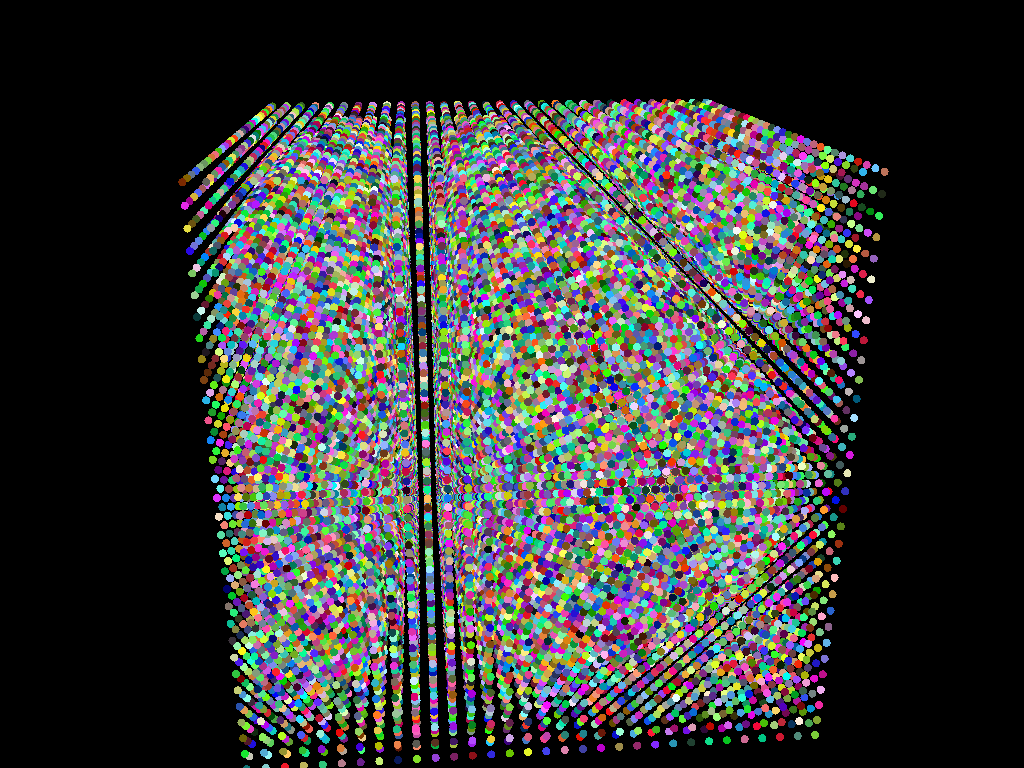
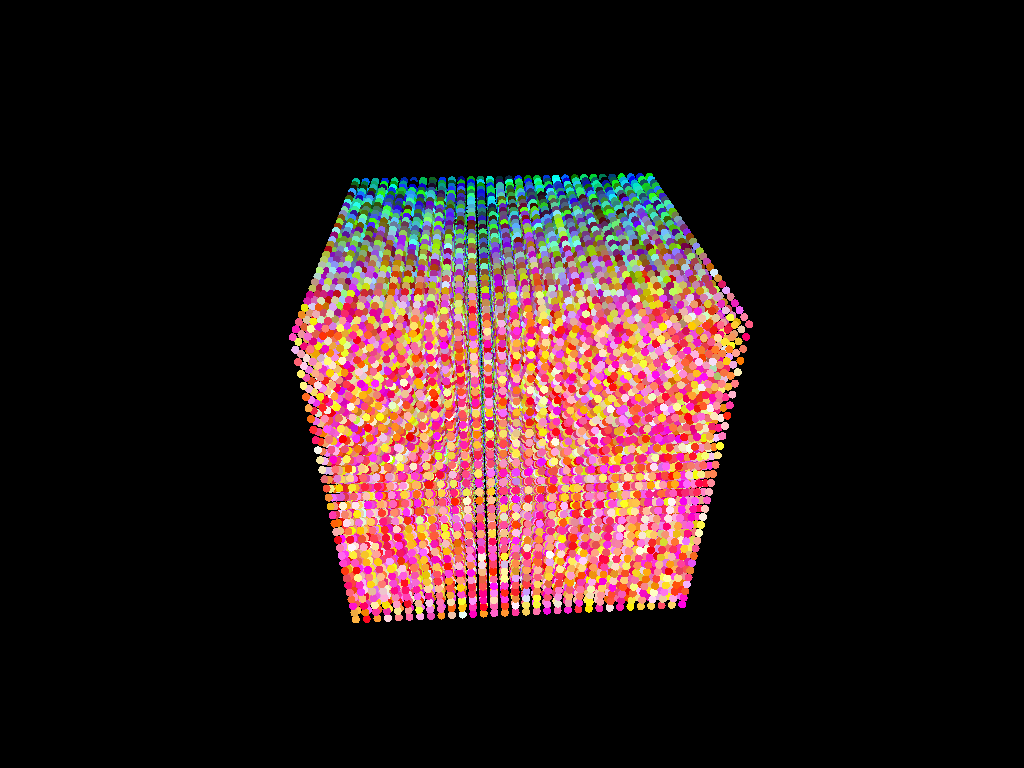
Fixes and uopdates to the screenshot

diff --git a/Example47/src/main.c b/Example47/src/main.c
@@ -61,6 +61,7 @@ static GLint g_gridN = 32;   // default; overwritten in init()
 static GLUSprogram g_sortProgram;
 
 static GLint g_sort_axisLoc;
+static GLint g_sort_passLoc;
 
 //
 // Render program (attribute-less point cloud).
@@ -300,6 +301,7 @@ GLUSboolean init(GLUSvoid)
     glUseProgram(g_sortProgram.program);
 
     g_sort_axisLoc = glGetUniformLocation(g_sortProgram.program, "u_axis");
+    g_sort_passLoc = glGetUniformLocation(g_sortProgram.program, "u_pass");
 
     glUseProgram(0);
 
@@ -423,6 +425,9 @@ GLUSboolean update(GLUSfloat time)
     if (g_sorting)
     {
         GLint stepsThisFrame;
+        // One visible step = one full axis sort (GRID_N single-pass dispatches).
+        // Axis cycles X→Y→Z→X→... so the animation shows each axis in turn.
+        // Total visible steps = GRID_N cycles × 3 axes.
         GLint totalSteps = g_gridN * 3;
 
         if (g_fullSpeed)
@@ -459,13 +464,20 @@ GLUSboolean update(GLUSfloat time)
 
             for (s = 0; s < stepsThisFrame && g_sorting; s++)
             {
-                // axis cycles 0->1->2->0->... (X->Y->Z->X->...)
-                glUniform1i(g_sort_axisLoc, g_sortStep % 3);
+                // One visible step = one full axis sort: GRID_N single-pass dispatches.
+                // Axis cycles X(0)→Y(1)→Z(2)→X(0)→...
+                int axis = g_sortStep % 3;
+                int p;
 
-                // One work group per line: (g_gridN x g_gridN) groups.
-                glDispatchCompute(g_gridN, g_gridN, 1);
+                for (p = 0; p < g_gridN; p++)
+                {
+                    glUniform1i(g_sort_axisLoc, axis);
+                    glUniform1i(g_sort_passLoc, p);
 
-                glMemoryBarrier(GL_SHADER_IMAGE_ACCESS_BARRIER_BIT);
+                    glDispatchCompute(g_gridN, g_gridN, 1);
+
+                    glMemoryBarrier(GL_SHADER_IMAGE_ACCESS_BARRIER_BIT);
+                }
 
                 g_sortStep++;
 
